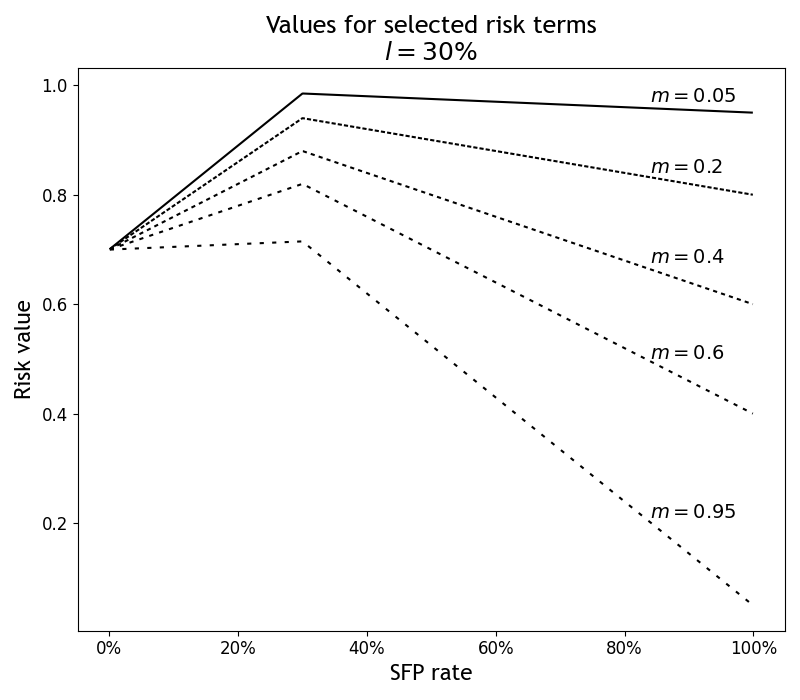
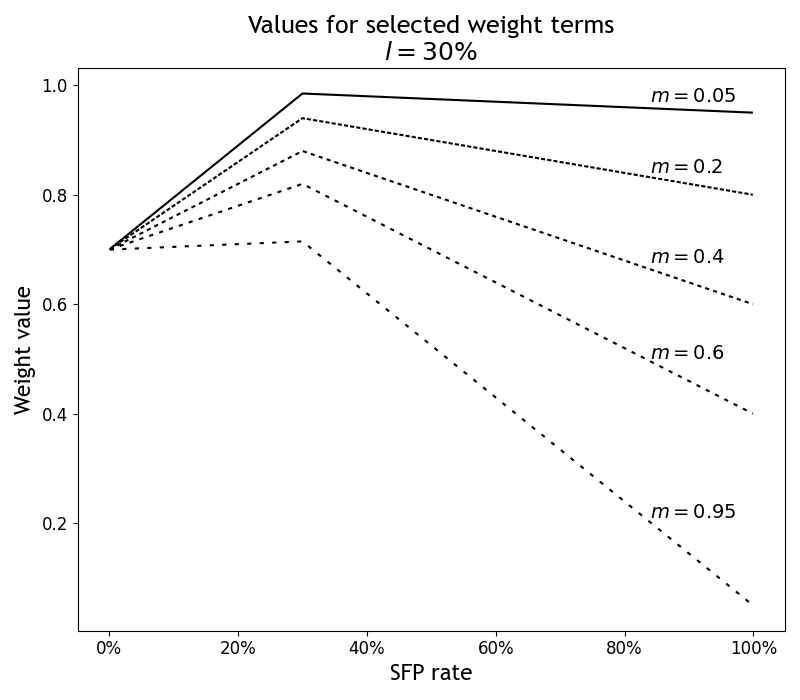
plots updated for paper

Changed region(s): [[0.3125, 0.0, 0.7812, 0.06], [0.0, 0.42, 0.0625, 0.6]]

diff --git a/CASESTUDY_plotsforpaper.py b/CASESTUDY_plotsforpaper.py
@@ -30,8 +30,8 @@ def showriskvalues():
     import matplotlib.ticker as mtick
     ax.xaxis.set_major_formatter(mtick.PercentFormatter(1.0))
     ax.tick_params(axis='both',labelsize=12)
-    plt.title('Values for selected risk terms\n$l=30\%$', fontdict={'fontsize': 18, 'fontname': 'Trebuchet MS'})
-    plt.ylabel('Risk value', fontdict={'fontsize': 16, 'fontname': 'Trebuchet MS'})
+    plt.title('Values for selected weight terms\n$l=30\%$', fontdict={'fontsize': 18, 'fontname': 'Trebuchet MS'})
+    plt.ylabel('Weight value', fontdict={'fontsize': 16, 'fontname': 'Trebuchet MS'})
     plt.xlabel('SFP rate', fontdict={'fontsize': 16, 'fontname': 'Trebuchet MS'})
     plt.text(0.84, 0.97, '$m=0.05$', fontdict={'fontsize': 14, 'fontname': 'Trebuchet MS'})
     plt.text(0.84, 0.84, '$m=0.2$', fontdict={'fontsize': 14, 'fontname': 'Trebuchet MS'})
@@ -221,7 +221,7 @@ def casestudyplots_familiar():
     plt.xlim([0., xMax])
     plt.xlabel('Sampling Budget', fontsize=axSz)
     plt.ylabel('Test Node Allocation', fontsize=axSz)
-    plt.title('Sampling Plan vs. Budget\nCurrent Setting', fontsize=titleSz)
+    plt.title('Sampling Plan vs. Budget\nExisting Setting', fontsize=titleSz)
     # plt.tight_layout()
     plt.show()
     plt.close()
@@ -267,7 +267,7 @@ def casestudyplots_familiar():
         legobj.set_linewidth(1.0)
     plt.xlabel('Sampling Budget', fontsize=axSz)
     plt.ylabel('Plan Utility', fontsize=axSz)
-    plt.title('Utility from Utility-Informed, Uniform and Fixed Allocations\nCurrent Setting', fontsize=titleSz)
+    plt.title('Utility from Utility-Informed, Uniform and Fixed Allocations\nExisting Setting', fontsize=titleSz)
     # Add text for budgetary savings vs other policies at 100 tests
     x1, x2, x3 = 100, 132, 156
     iv = 0.015
@@ -350,7 +350,7 @@ def casestudyplots_familiar_market():
     plt.xlim([0., xMax])
     plt.xlabel('Sampling Budget', fontsize=axSz)
     plt.ylabel('Test Node Allocation', fontsize=axSz)
-    plt.title('Sampling Plan vs. Budget\nCurrent Setting with Market Term', fontsize=titleSz)
+    plt.title('Sampling Plan vs. Budget\nExisting Setting with Market Term', fontsize=titleSz)
     # plt.tight_layout()
     plt.show()
     plt.close()
@@ -396,7 +396,7 @@ def casestudyplots_familiar_market():
         legobj.set_linewidth(1.0)
     plt.xlabel('Sampling Budget', fontsize=axSz)
     plt.ylabel('Plan Utility', fontsize=axSz)
-    plt.title('Utility from Utility-Informed, Uniform and Fixed Allocations\nCurrent Setting with Market Term', fontsize=titleSz)
+    plt.title('Utility from Utility-Informed, Uniform and Fixed Allocations\nExisting Setting with Market Term', fontsize=titleSz)
     # Add text for budgetary savings vs other policies at 100 tests
     x1, x2, x3 = 100, 120, 146
     iv = 0.0015
@@ -496,7 +496,7 @@ def casestudyplots_exploratory():
     plt.xlim([0., xMax])
     plt.xlabel('Sampling Budget', fontsize=axSz)
     plt.ylabel('Test Node Allocation', fontsize=axSz)
-    plt.title('Sampling Plan vs. Budget\nExploratory Setting', fontsize=titleSz)
+    plt.title('Sampling Plan vs. Budget\nAll-Provinces Setting', fontsize=titleSz)
     # plt.tight_layout()
     plt.show()
     plt.close()
@@ -542,7 +542,7 @@ def casestudyplots_exploratory():
         legobj.set_linewidth(1.0)
     plt.xlabel('Sampling Budget', fontsize=axSz)
     plt.ylabel('Plan Utility', fontsize=axSz)
-    plt.title('Utility from Utility-Informed, Uniform and Fixed Allocations\nExploratory Setting', fontsize=titleSz)
+    plt.title('Utility from Utility-Informed, Uniform and Fixed Allocations\nAll-Provinces Setting', fontsize=titleSz)
     # Add text for budgetary savings vs other policies at 100 tests
     x1, x2, x3 = 100, 120, 331
     iv = 0.03
@@ -654,7 +654,7 @@ def casestudyplots_exploratory_market():
     plt.xlim([0., xMax])
     plt.xlabel('Sampling Budget', fontsize=axSz)
     plt.ylabel('Test Node Allocation', fontsize=axSz)
-    plt.title('Sampling Plan vs. Budget\nExploratory Setting with Market Term', fontsize=titleSz)
+    plt.title('Sampling Plan vs. Budget\nAll-Provinces Setting with Market Term', fontsize=titleSz)
     # plt.tight_layout()
     plt.show()
     plt.close()
@@ -700,7 +700,7 @@ def casestudyplots_exploratory_market():
         legobj.set_linewidth(1.0)
     plt.xlabel('Sampling Budget', fontsize=axSz)
     plt.ylabel('Plan Utility', fontsize=axSz)
-    plt.title('Utility from Utility-Informed, Uniform and Fixed Allocations\nExploratory Setting with Market Term', fontsize=titleSz)
+    plt.title('Utility from Utility-Informed, Uniform and Fixed Allocations\nAll-Provinces Setting with Market Term', fontsize=titleSz)
     # Add text for budgetary savings vs other policies at 100 tests
     x1, x2 = 100, 133
     iv = 0.0032
@@ -1238,7 +1238,7 @@ def casestudyplots_exploratory_OLD():
     plt.xlim([0., xMax])
     plt.xlabel('Number of Tests', fontsize=axSz)
     plt.ylabel('Marginal Utility Gain', fontsize=axSz)
-    plt.title('Marginal Utility with Increasing Tests\nExploratory Setting', fontsize=titleSz)
+    plt.title('Marginal Utility with Increasing Tests\nAll-Provinces Setting', fontsize=titleSz)
     plt.show()
     plt.close()
 
@@ -1274,7 +1274,7 @@ def casestudyplots_exploratory_OLD():
     plt.xlim([0., xMax])
     plt.xlabel('Sampling Budget', fontsize=axSz)
     plt.ylabel('Test Node Allocation', fontsize=axSz)
-    plt.title('Sampling Plan vs. Budget\nExploratory Setting', fontsize=titleSz)
+    plt.title('Sampling Plan vs. Budget\nAll-Provinces Setting', fontsize=titleSz)
     # plt.tight_layout()
     plt.show()
     plt.close()
@@ -1314,7 +1314,7 @@ def casestudyplots_exploratory_OLD():
         legobj.set_linewidth(1.0)
     plt.xlabel('Sampling Budget', fontsize=axSz)
     plt.ylabel('Plan Utility', fontsize=axSz)
-    plt.title('Utility from Utility-Informed, Uniform and Fixed Allocations\nExploratory Setting', fontsize=titleSz)
+    plt.title('Utility from Utility-Informed, Uniform and Fixed Allocations\nAll-Provinces Setting', fontsize=titleSz)
     # Add text box showing budgetary savings
     compUtilAvg = np.average(np.array(heur_utillist), axis=0)
     x2, x3 = 119, 325
@@ -1917,7 +1917,7 @@ def casestudyplots_exploratory_market_OLD():
     plt.xlim([0., xMax])
     plt.xlabel('Number of Tests', fontsize=axSz)
     plt.ylabel('Marginal Utility Gain', fontsize=axSz)
-    plt.title('Marginal Utility with Increasing Tests\nExploratory Setting with Market Term', fontsize=titleSz)
+    plt.title('Marginal Utility with Increasing Tests\nAll-Provinces Setting with Market Term', fontsize=titleSz)
     plt.show()
     plt.close()
 
@@ -1956,7 +1956,7 @@ def casestudyplots_exploratory_market_OLD():
     plt.xlim([0., xMax])
     plt.xlabel('Sampling Budget', fontsize=axSz)
     plt.ylabel('Test Node Allocation', fontsize=axSz)
-    plt.title('Sampling Plan vs. Budget\nExploratory Setting with Market Term', fontsize=titleSz)
+    plt.title('Sampling Plan vs. Budget\nAll-Provinces Setting with Market Term', fontsize=titleSz)
     # plt.tight_layout()
     plt.show()
     plt.close()
@@ -1996,7 +1996,7 @@ def casestudyplots_exploratory_market_OLD():
         legobj.set_linewidth(1.0)
     plt.xlabel('Sampling Budget', fontsize=axSz)
     plt.ylabel('Plan Utility', fontsize=axSz)
-    plt.title('Utility from Utility-Informed, Uniform, and Fixed Allocations\nExploratory Setting with Market Term',
+    plt.title('Utility from Utility-Informed, Uniform, and Fixed Allocations\nAll-Provinces Setting with Market Term',
               fontsize=titleSz)
     # Add text box showing budgetary savings
     compUtilAvg = np.average(np.array(heur_utillist), axis=0)
